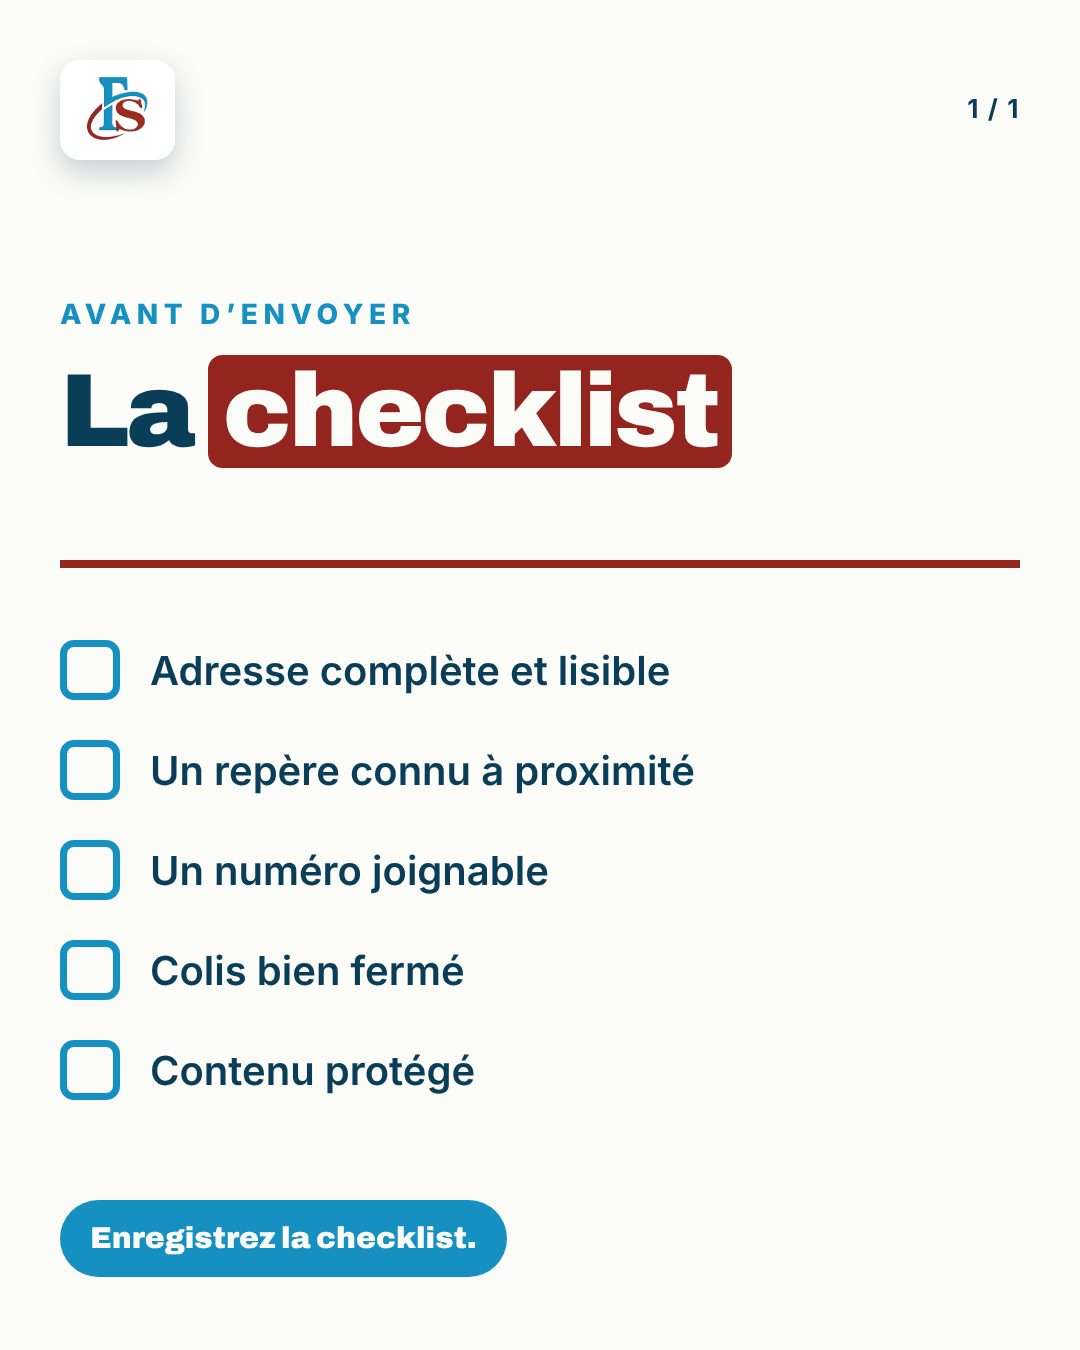
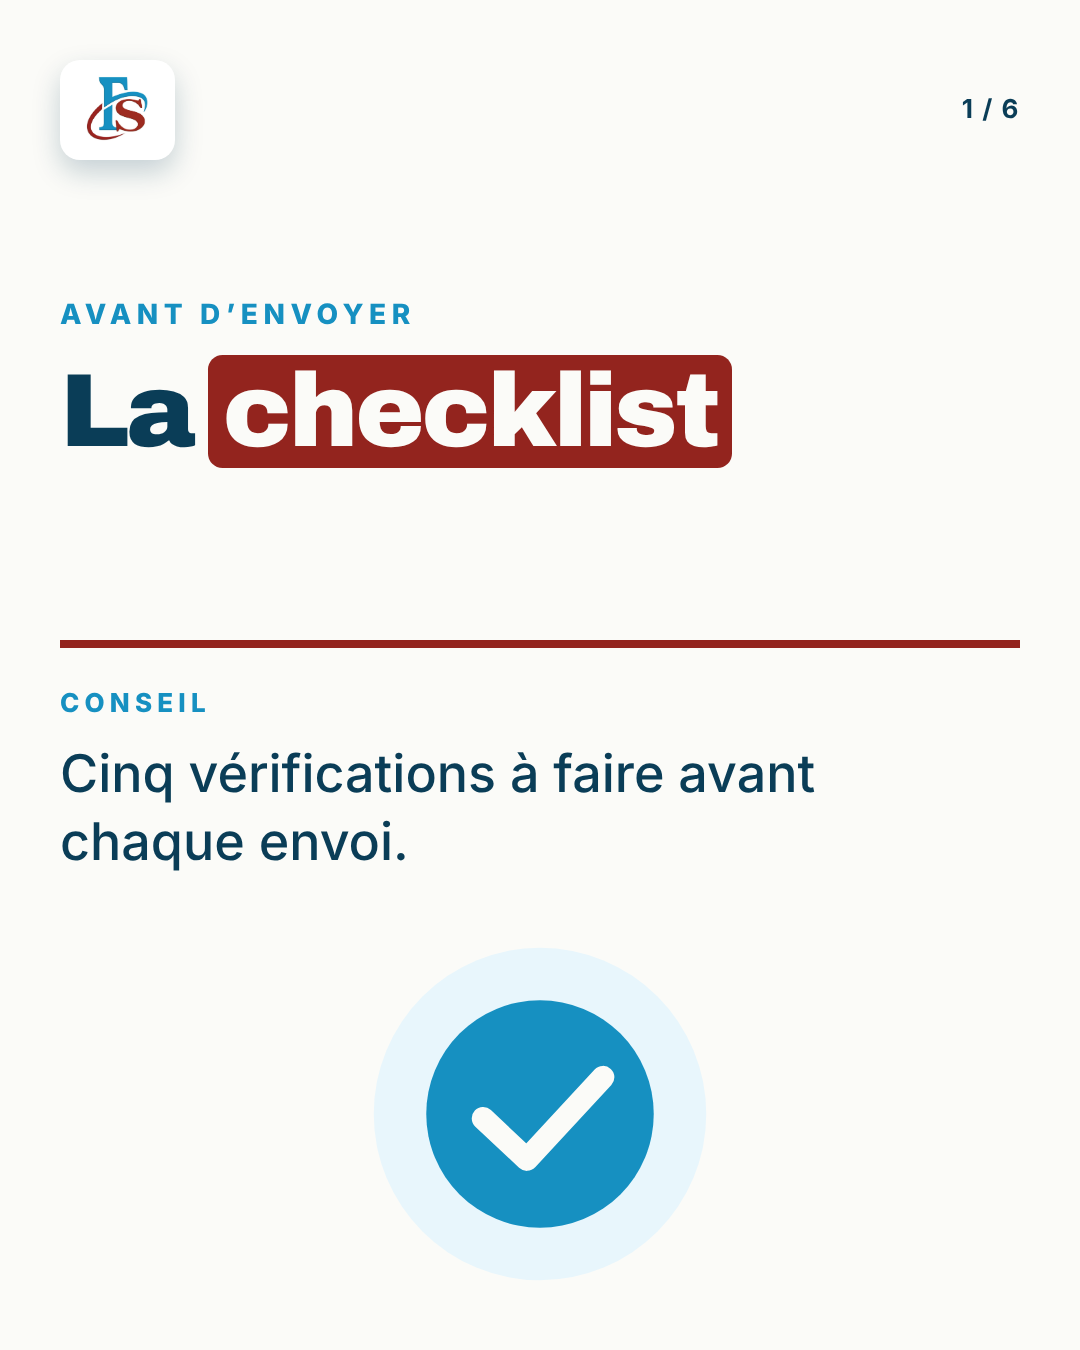
Week 2: Thursday and Friday Instagram posts become six-slide carousels
Thursday '5 détails' and Friday checklist now run as carousels: a cover slide
and one slide per point. Slide 1 of Thursday shows a photo slot (not committed,
licence and consent pending). Text-only slides are exported as PNG.

Claude-Session: https://claude.ai/code/session_01RXtv1MYkDaNmKECXWDrQDu

diff --git a/direction-artistique/semaine-2/creas-jeudi.html b/direction-artistique/semaine-2/creas-jeudi.html
@@ -42,34 +42,80 @@
   <div class="pill" style="left:60px;top:1212px;font-size:30px">Répondez « A » ou « B » en commentaire.</div>
 </section>
 
-<!-- ============ JEUDI 3 DÉCEMBRE · 13h00 · INSTAGRAM · « 5 détails » (fiche produit fictive) ============ -->
+
+<!-- ============ JEUDI 3 DÉCEMBRE · 13h00 · INSTAGRAM · Carrousel « 5 détails » (6 slides) ============ -->
+
 <section class="slide" data-name="2026-12-03_13h00_IG-1" style="background:#FBFBF8">
   <div class="logo" style="left:60px;top:60px"><img src="../semaine-1/assets/logo.jpg" alt="Logo FS Express"></div>
-  <div class="count" style="right:60px;top:96px;color:#0A3D57">1 / 1</div>
+  <div class="count" style="right:60px;top:96px;color:#0A3D57">1 / 6</div>
   <div class="kick" style="left:60px;top:300px;color:#1690C1">Exemple fictif</div>
-  <div class="h" style="left:60px;top:360px;width:960px;font-size:104px;color:#0A3D57">5 détails<br>qui <span class="hl">rassurent</span></div>
-
-  <!-- fiche produit fictive -->
-  <div class="abs" style="left:60px;top:660px;width:960px;height:300px;border-radius:40px;background:#fff;box-shadow:0 18px 40px rgba(10,61,87,.18)"></div>
-  
-  <img class="abs" src="assets/photos-s2/jeudi-ig-tshirt.jpg" alt="" style="left:110px;top:700px;width:200px;height:200px;object-fit:cover;object-position:50% 50%;border-radius:22px">
-  <div class="abs" style="left:350px;top:700px;font:900 44px/1.1 Archivo,sans-serif;color:#0A3D57">Produit exemple</div>
-  <div class="abs" style="left:350px;top:758px;font:500 28px/1.3 Inter,sans-serif;color:#0A3D57">Fiche fictive, à titre d’illustration</div>
-  <div class="abs" style="left:350px;top:830px;width:360px;height:52px;border-radius:26px;background:#93241E"></div>
-  <div class="abs" style="left:350px;top:843px;width:360px;font:800 24px/26px Inter,sans-serif;letter-spacing:.12em;color:#FBFBF8;text-transform:uppercase;text-align:center">Ajouter au panier</div>
-
-  <!-- les 5 détails -->
-  <div class="box" style="left:60px;top:1000px;width:44px;height:44px;border-width:6px"></div>
-  <div class="item" style="left:130px;top:997px;font-size:38px">Photo nette du produit</div>
-  <div class="box" style="left:60px;top:1062px;width:44px;height:44px;border-width:6px"></div>
-  <div class="item" style="left:130px;top:1059px;font-size:38px">Taille ou format indiqués</div>
-  <div class="box" style="left:60px;top:1124px;width:44px;height:44px;border-width:6px"></div>
-  <div class="item" style="left:130px;top:1121px;font-size:38px">Couleur précise</div>
-  <div class="box" style="left:60px;top:1186px;width:44px;height:44px;border-width:6px"></div>
-  <div class="item" style="left:130px;top:1183px;font-size:38px">Prix affiché avant de payer</div>
-  <div class="box" style="left:60px;top:1248px;width:44px;height:44px;border-width:6px"></div>
-  <div class="item" style="left:130px;top:1245px;font-size:38px">Délai de livraison écrit</div>
+  <div class="h" style="left:60px;top:360px;width:960px;font-size:104px;color:#0A3D57">5 détails<br><span class="hl">qui rassurent</span></div>
+  <div class="line" style="left:60px;top:640px;width:960px"></div>
+  <div class="kick" style="left:60px;top:690px;color:#1690C1;font-size:26px">Conseil</div>
+  <div class="abs" style="left:60px;top:740px;width:900px;font:500 52px/1.3 Inter,sans-serif;color:#0A3D57">Sur une fiche produit, ces cinq éléments évitent bien des questions.</div>
+  <img class="abs" src="assets/photos-s2/jeudi-ig-tshirt.jpg" alt="" style="left:340px;top:950px;width:400px;height:270px;object-fit:cover;object-position:50% 50%;border-radius:36px">
 </section>
+
+
+<section class="slide" data-name="2026-12-03_13h00_IG-2" style="background:#FBFBF8">
+  <div class="logo" style="left:60px;top:60px"><img src="../semaine-1/assets/logo.jpg" alt="Logo FS Express"></div>
+  <div class="count" style="right:60px;top:96px;color:#0A3D57">2 / 6</div>
+  <div class="kick" style="left:60px;top:300px;color:#1690C1">Détail 1 · 5</div>
+  <div class="h" style="left:60px;top:360px;width:960px;font-size:104px;color:#0A3D57">Photo<br><span class="hl">nette</span></div>
+  <div class="line" style="left:60px;top:640px;width:960px"></div>
+  <div class="kick" style="left:60px;top:690px;color:#1690C1;font-size:26px">Conseil</div>
+  <div class="abs" style="left:60px;top:740px;width:900px;font:500 52px/1.3 Inter,sans-serif;color:#0A3D57">Une photo nette du produit, sur fond simple.</div>
+  <svg class="abs" style="left:330px;top:930px" width="420" height="368" viewBox="0 0 480 420" fill="none" aria-hidden="true"><circle cx="240" cy="210" r="190" fill="#E8F6FC"/><circle cx="240" cy="210" r="130" fill="#1690C1"/><path d="M175 215 L225 262 L312 168" stroke="#FBFBF8" stroke-width="26" stroke-linecap="round" stroke-linejoin="round"/></svg>
+</section>
+
+
+<section class="slide" data-name="2026-12-03_13h00_IG-3" style="background:#FBFBF8">
+  <div class="logo" style="left:60px;top:60px"><img src="../semaine-1/assets/logo.jpg" alt="Logo FS Express"></div>
+  <div class="count" style="right:60px;top:96px;color:#0A3D57">3 / 6</div>
+  <div class="kick" style="left:60px;top:300px;color:#1690C1">Détail 2 · 5</div>
+  <div class="h" style="left:60px;top:360px;width:960px;font-size:104px;color:#0A3D57">Taille ou<br><span class="hl">format</span></div>
+  <div class="line" style="left:60px;top:640px;width:960px"></div>
+  <div class="kick" style="left:60px;top:690px;color:#1690C1;font-size:26px">Conseil</div>
+  <div class="abs" style="left:60px;top:740px;width:900px;font:500 52px/1.3 Inter,sans-serif;color:#0A3D57">La taille ou le format est indiqué clairement.</div>
+  <svg class="abs" style="left:330px;top:930px" width="420" height="368" viewBox="0 0 480 420" fill="none" aria-hidden="true"><circle cx="240" cy="210" r="190" fill="#E8F6FC"/><circle cx="240" cy="210" r="130" fill="#1690C1"/><path d="M175 215 L225 262 L312 168" stroke="#FBFBF8" stroke-width="26" stroke-linecap="round" stroke-linejoin="round"/></svg>
+</section>
+
+
+<section class="slide" data-name="2026-12-03_13h00_IG-4" style="background:#FBFBF8">
+  <div class="logo" style="left:60px;top:60px"><img src="../semaine-1/assets/logo.jpg" alt="Logo FS Express"></div>
+  <div class="count" style="right:60px;top:96px;color:#0A3D57">4 / 6</div>
+  <div class="kick" style="left:60px;top:300px;color:#1690C1">Détail 3 · 5</div>
+  <div class="h" style="left:60px;top:360px;width:960px;font-size:104px;color:#0A3D57">Couleur<br><span class="hl">précise</span></div>
+  <div class="line" style="left:60px;top:640px;width:960px"></div>
+  <div class="kick" style="left:60px;top:690px;color:#1690C1;font-size:26px">Conseil</div>
+  <div class="abs" style="left:60px;top:740px;width:900px;font:500 52px/1.3 Inter,sans-serif;color:#0A3D57">La couleur est écrite, pas seulement devinée sur la photo.</div>
+  <svg class="abs" style="left:330px;top:930px" width="420" height="368" viewBox="0 0 480 420" fill="none" aria-hidden="true"><circle cx="240" cy="210" r="190" fill="#E8F6FC"/><circle cx="240" cy="210" r="130" fill="#1690C1"/><path d="M175 215 L225 262 L312 168" stroke="#FBFBF8" stroke-width="26" stroke-linecap="round" stroke-linejoin="round"/></svg>
+</section>
+
+
+<section class="slide" data-name="2026-12-03_13h00_IG-5" style="background:#FBFBF8">
+  <div class="logo" style="left:60px;top:60px"><img src="../semaine-1/assets/logo.jpg" alt="Logo FS Express"></div>
+  <div class="count" style="right:60px;top:96px;color:#0A3D57">5 / 6</div>
+  <div class="kick" style="left:60px;top:300px;color:#1690C1">Détail 4 · 5</div>
+  <div class="h" style="left:60px;top:360px;width:960px;font-size:104px;color:#0A3D57">Prix<br><span class="hl">affiché</span></div>
+  <div class="line" style="left:60px;top:640px;width:960px"></div>
+  <div class="kick" style="left:60px;top:690px;color:#1690C1;font-size:26px">Conseil</div>
+  <div class="abs" style="left:60px;top:740px;width:900px;font:500 52px/1.3 Inter,sans-serif;color:#0A3D57">Le prix est visible avant de payer.</div>
+  <svg class="abs" style="left:330px;top:930px" width="420" height="368" viewBox="0 0 480 420" fill="none" aria-hidden="true"><circle cx="240" cy="210" r="190" fill="#E8F6FC"/><circle cx="240" cy="210" r="130" fill="#1690C1"/><path d="M175 215 L225 262 L312 168" stroke="#FBFBF8" stroke-width="26" stroke-linecap="round" stroke-linejoin="round"/></svg>
+</section>
+
+
+<section class="slide" data-name="2026-12-03_13h00_IG-6" style="background:#FBFBF8">
+  <div class="logo" style="left:60px;top:60px"><img src="../semaine-1/assets/logo.jpg" alt="Logo FS Express"></div>
+  <div class="count" style="right:60px;top:96px;color:#0A3D57">6 / 6</div>
+  <div class="kick" style="left:60px;top:300px;color:#1690C1">Détail 5 · 5</div>
+  <div class="h" style="left:60px;top:360px;width:960px;font-size:104px;color:#0A3D57">Délai<br><span class="hl">écrit</span></div>
+  <div class="line" style="left:60px;top:640px;width:960px"></div>
+  <div class="kick" style="left:60px;top:690px;color:#1690C1;font-size:26px">Conseil</div>
+  <div class="abs" style="left:60px;top:740px;width:900px;font:500 52px/1.3 Inter,sans-serif;color:#0A3D57">Le délai de livraison est écrit noir sur blanc.</div>
+  <svg class="abs" style="left:330px;top:930px" width="420" height="368" viewBox="0 0 480 420" fill="none" aria-hidden="true"><circle cx="240" cy="210" r="190" fill="#E8F6FC"/><circle cx="240" cy="210" r="130" fill="#1690C1"/><path d="M175 215 L225 262 L312 168" stroke="#FBFBF8" stroke-width="26" stroke-linecap="round" stroke-linejoin="round"/></svg>
+</section>
+
 
 <!-- ============ JEUDI 3 DÉCEMBRE · STORIES ============ -->
 <section class="slide story" data-name="2026-12-03_story-1" style="background:linear-gradient(180deg,#0A3D57 0%,#06283A 100%)">

diff --git a/direction-artistique/semaine-2/creas-vendredi.html b/direction-artistique/semaine-2/creas-vendredi.html
@@ -20,25 +20,80 @@
   <div class="pill" style="left:60px;top:1212px;font-size:30px">Répondez « vrai » ou « faux » en commentaire.</div>
 </section>
 
-<!-- ============ VENDREDI 4 DÉCEMBRE · 13h00 · INSTAGRAM · Checklist ============ -->
+
+<!-- ============ VENDREDI 4 DÉCEMBRE · 13h00 · INSTAGRAM · Carrousel « Checklist » (6 slides) ============ -->
+
 <section class="slide" data-name="2026-12-04_13h00_IG-1" style="background:#FBFBF8">
   <div class="logo" style="left:60px;top:60px"><img src="../semaine-1/assets/logo.jpg" alt="Logo FS Express"></div>
-  <div class="count" style="right:60px;top:96px;color:#0A3D57">1 / 1</div>
+  <div class="count" style="right:60px;top:96px;color:#0A3D57">1 / 6</div>
   <div class="kick" style="left:60px;top:300px;color:#1690C1">Avant d’envoyer</div>
   <div class="h" style="left:60px;top:360px;width:960px;font-size:104px;color:#0A3D57">La <span class="hl">checklist</span></div>
-  <div class="line" style="left:60px;top:560px;width:960px"></div>
-  <div class="box" style="left:60px;top:640px"></div>
-  <div class="item" style="left:150px;top:646px">Adresse complète et lisible</div>
-  <div class="box" style="left:60px;top:740px"></div>
-  <div class="item" style="left:150px;top:746px">Un repère connu à proximité</div>
-  <div class="box" style="left:60px;top:840px"></div>
-  <div class="item" style="left:150px;top:846px">Un numéro joignable</div>
-  <div class="box" style="left:60px;top:940px"></div>
-  <div class="item" style="left:150px;top:946px">Colis bien fermé</div>
-  <div class="box" style="left:60px;top:1040px"></div>
-  <div class="item" style="left:150px;top:1046px">Contenu protégé</div>
-  <div class="pill b" style="left:60px;top:1200px">Enregistrez la checklist.</div>
+  <div class="line" style="left:60px;top:640px;width:960px"></div>
+  <div class="kick" style="left:60px;top:690px;color:#1690C1;font-size:26px">Conseil</div>
+  <div class="abs" style="left:60px;top:740px;width:900px;font:500 52px/1.3 Inter,sans-serif;color:#0A3D57">Cinq vérifications à faire avant chaque envoi.</div>
+  <svg class="abs" style="left:330px;top:930px" width="420" height="368" viewBox="0 0 480 420" fill="none" aria-hidden="true"><circle cx="240" cy="210" r="190" fill="#E8F6FC"/><circle cx="240" cy="210" r="130" fill="#1690C1"/><path d="M175 215 L225 262 L312 168" stroke="#FBFBF8" stroke-width="26" stroke-linecap="round" stroke-linejoin="round"/></svg>
 </section>
+
+
+<section class="slide" data-name="2026-12-04_13h00_IG-2" style="background:#FBFBF8">
+  <div class="logo" style="left:60px;top:60px"><img src="../semaine-1/assets/logo.jpg" alt="Logo FS Express"></div>
+  <div class="count" style="right:60px;top:96px;color:#0A3D57">2 / 6</div>
+  <div class="kick" style="left:60px;top:300px;color:#1690C1">Vérification 1 · 5</div>
+  <div class="h" style="left:60px;top:360px;width:960px;font-size:104px;color:#0A3D57">Adresse<br><span class="hl">complète</span></div>
+  <div class="line" style="left:60px;top:640px;width:960px"></div>
+  <div class="kick" style="left:60px;top:690px;color:#1690C1;font-size:26px">Conseil</div>
+  <div class="abs" style="left:60px;top:740px;width:900px;font:500 52px/1.3 Inter,sans-serif;color:#0A3D57">Une adresse complète et lisible, écrite en gros.</div>
+  <svg class="abs" style="left:330px;top:930px" width="420" height="368" viewBox="0 0 480 420" fill="none" aria-hidden="true"><circle cx="240" cy="210" r="190" fill="#E8F6FC"/><circle cx="240" cy="210" r="130" fill="#1690C1"/><path d="M175 215 L225 262 L312 168" stroke="#FBFBF8" stroke-width="26" stroke-linecap="round" stroke-linejoin="round"/></svg>
+</section>
+
+
+<section class="slide" data-name="2026-12-04_13h00_IG-3" style="background:#FBFBF8">
+  <div class="logo" style="left:60px;top:60px"><img src="../semaine-1/assets/logo.jpg" alt="Logo FS Express"></div>
+  <div class="count" style="right:60px;top:96px;color:#0A3D57">3 / 6</div>
+  <div class="kick" style="left:60px;top:300px;color:#1690C1">Vérification 2 · 5</div>
+  <div class="h" style="left:60px;top:360px;width:960px;font-size:104px;color:#0A3D57">Un repère<br><span class="hl">connu</span></div>
+  <div class="line" style="left:60px;top:640px;width:960px"></div>
+  <div class="kick" style="left:60px;top:690px;color:#1690C1;font-size:26px">Conseil</div>
+  <div class="abs" style="left:60px;top:740px;width:900px;font:500 52px/1.3 Inter,sans-serif;color:#0A3D57">Un repère connu à proximité : pharmacie, marché, carrefour.</div>
+  <svg class="abs" style="left:330px;top:930px" width="420" height="368" viewBox="0 0 480 420" fill="none" aria-hidden="true"><circle cx="240" cy="210" r="190" fill="#E8F6FC"/><circle cx="240" cy="210" r="130" fill="#1690C1"/><path d="M175 215 L225 262 L312 168" stroke="#FBFBF8" stroke-width="26" stroke-linecap="round" stroke-linejoin="round"/></svg>
+</section>
+
+
+<section class="slide" data-name="2026-12-04_13h00_IG-4" style="background:#FBFBF8">
+  <div class="logo" style="left:60px;top:60px"><img src="../semaine-1/assets/logo.jpg" alt="Logo FS Express"></div>
+  <div class="count" style="right:60px;top:96px;color:#0A3D57">4 / 6</div>
+  <div class="kick" style="left:60px;top:300px;color:#1690C1">Vérification 3 · 5</div>
+  <div class="h" style="left:60px;top:360px;width:960px;font-size:104px;color:#0A3D57">Un numéro<br><span class="hl">joignable</span></div>
+  <div class="line" style="left:60px;top:640px;width:960px"></div>
+  <div class="kick" style="left:60px;top:690px;color:#1690C1;font-size:26px">Conseil</div>
+  <div class="abs" style="left:60px;top:740px;width:900px;font:500 52px/1.3 Inter,sans-serif;color:#0A3D57">Un numéro sur lequel le livreur peut vous joindre.</div>
+  <svg class="abs" style="left:330px;top:930px" width="420" height="368" viewBox="0 0 480 420" fill="none" aria-hidden="true"><circle cx="240" cy="210" r="190" fill="#E8F6FC"/><circle cx="240" cy="210" r="130" fill="#1690C1"/><path d="M175 215 L225 262 L312 168" stroke="#FBFBF8" stroke-width="26" stroke-linecap="round" stroke-linejoin="round"/></svg>
+</section>
+
+
+<section class="slide" data-name="2026-12-04_13h00_IG-5" style="background:#FBFBF8">
+  <div class="logo" style="left:60px;top:60px"><img src="../semaine-1/assets/logo.jpg" alt="Logo FS Express"></div>
+  <div class="count" style="right:60px;top:96px;color:#0A3D57">5 / 6</div>
+  <div class="kick" style="left:60px;top:300px;color:#1690C1">Vérification 4 · 5</div>
+  <div class="h" style="left:60px;top:360px;width:960px;font-size:104px;color:#0A3D57">Colis<br><span class="hl">fermé</span></div>
+  <div class="line" style="left:60px;top:640px;width:960px"></div>
+  <div class="kick" style="left:60px;top:690px;color:#1690C1;font-size:26px">Conseil</div>
+  <div class="abs" style="left:60px;top:740px;width:900px;font:500 52px/1.3 Inter,sans-serif;color:#0A3D57">Le carton est bien fermé, sur tous les côtés.</div>
+  <svg class="abs" style="left:330px;top:930px" width="420" height="368" viewBox="0 0 480 420" fill="none" aria-hidden="true"><circle cx="240" cy="210" r="190" fill="#E8F6FC"/><circle cx="240" cy="210" r="130" fill="#1690C1"/><path d="M175 215 L225 262 L312 168" stroke="#FBFBF8" stroke-width="26" stroke-linecap="round" stroke-linejoin="round"/></svg>
+</section>
+
+
+<section class="slide" data-name="2026-12-04_13h00_IG-6" style="background:#FBFBF8">
+  <div class="logo" style="left:60px;top:60px"><img src="../semaine-1/assets/logo.jpg" alt="Logo FS Express"></div>
+  <div class="count" style="right:60px;top:96px;color:#0A3D57">6 / 6</div>
+  <div class="kick" style="left:60px;top:300px;color:#1690C1">Vérification 5 · 5</div>
+  <div class="h" style="left:60px;top:360px;width:960px;font-size:104px;color:#0A3D57">Contenu<br><span class="hl">protégé</span></div>
+  <div class="line" style="left:60px;top:640px;width:960px"></div>
+  <div class="kick" style="left:60px;top:690px;color:#1690C1;font-size:26px">Conseil</div>
+  <div class="abs" style="left:60px;top:740px;width:900px;font:500 52px/1.3 Inter,sans-serif;color:#0A3D57">Le contenu est calé pour qu’il ne bouge pas.</div>
+  <svg class="abs" style="left:330px;top:930px" width="420" height="368" viewBox="0 0 480 420" fill="none" aria-hidden="true"><circle cx="240" cy="210" r="190" fill="#E8F6FC"/><circle cx="240" cy="210" r="130" fill="#1690C1"/><path d="M175 215 L225 262 L312 168" stroke="#FBFBF8" stroke-width="26" stroke-linecap="round" stroke-linejoin="round"/></svg>
+</section>
+
 
 <!-- ============ VENDREDI 4 DÉCEMBRE · STORIES ============ -->
 <section class="slide story" data-name="2026-12-04_story-1" style="background:radial-gradient(90% 60% at 20% 0%,#1690C1 0%,#0E5A80 60%,#0A3D57 100%)">
